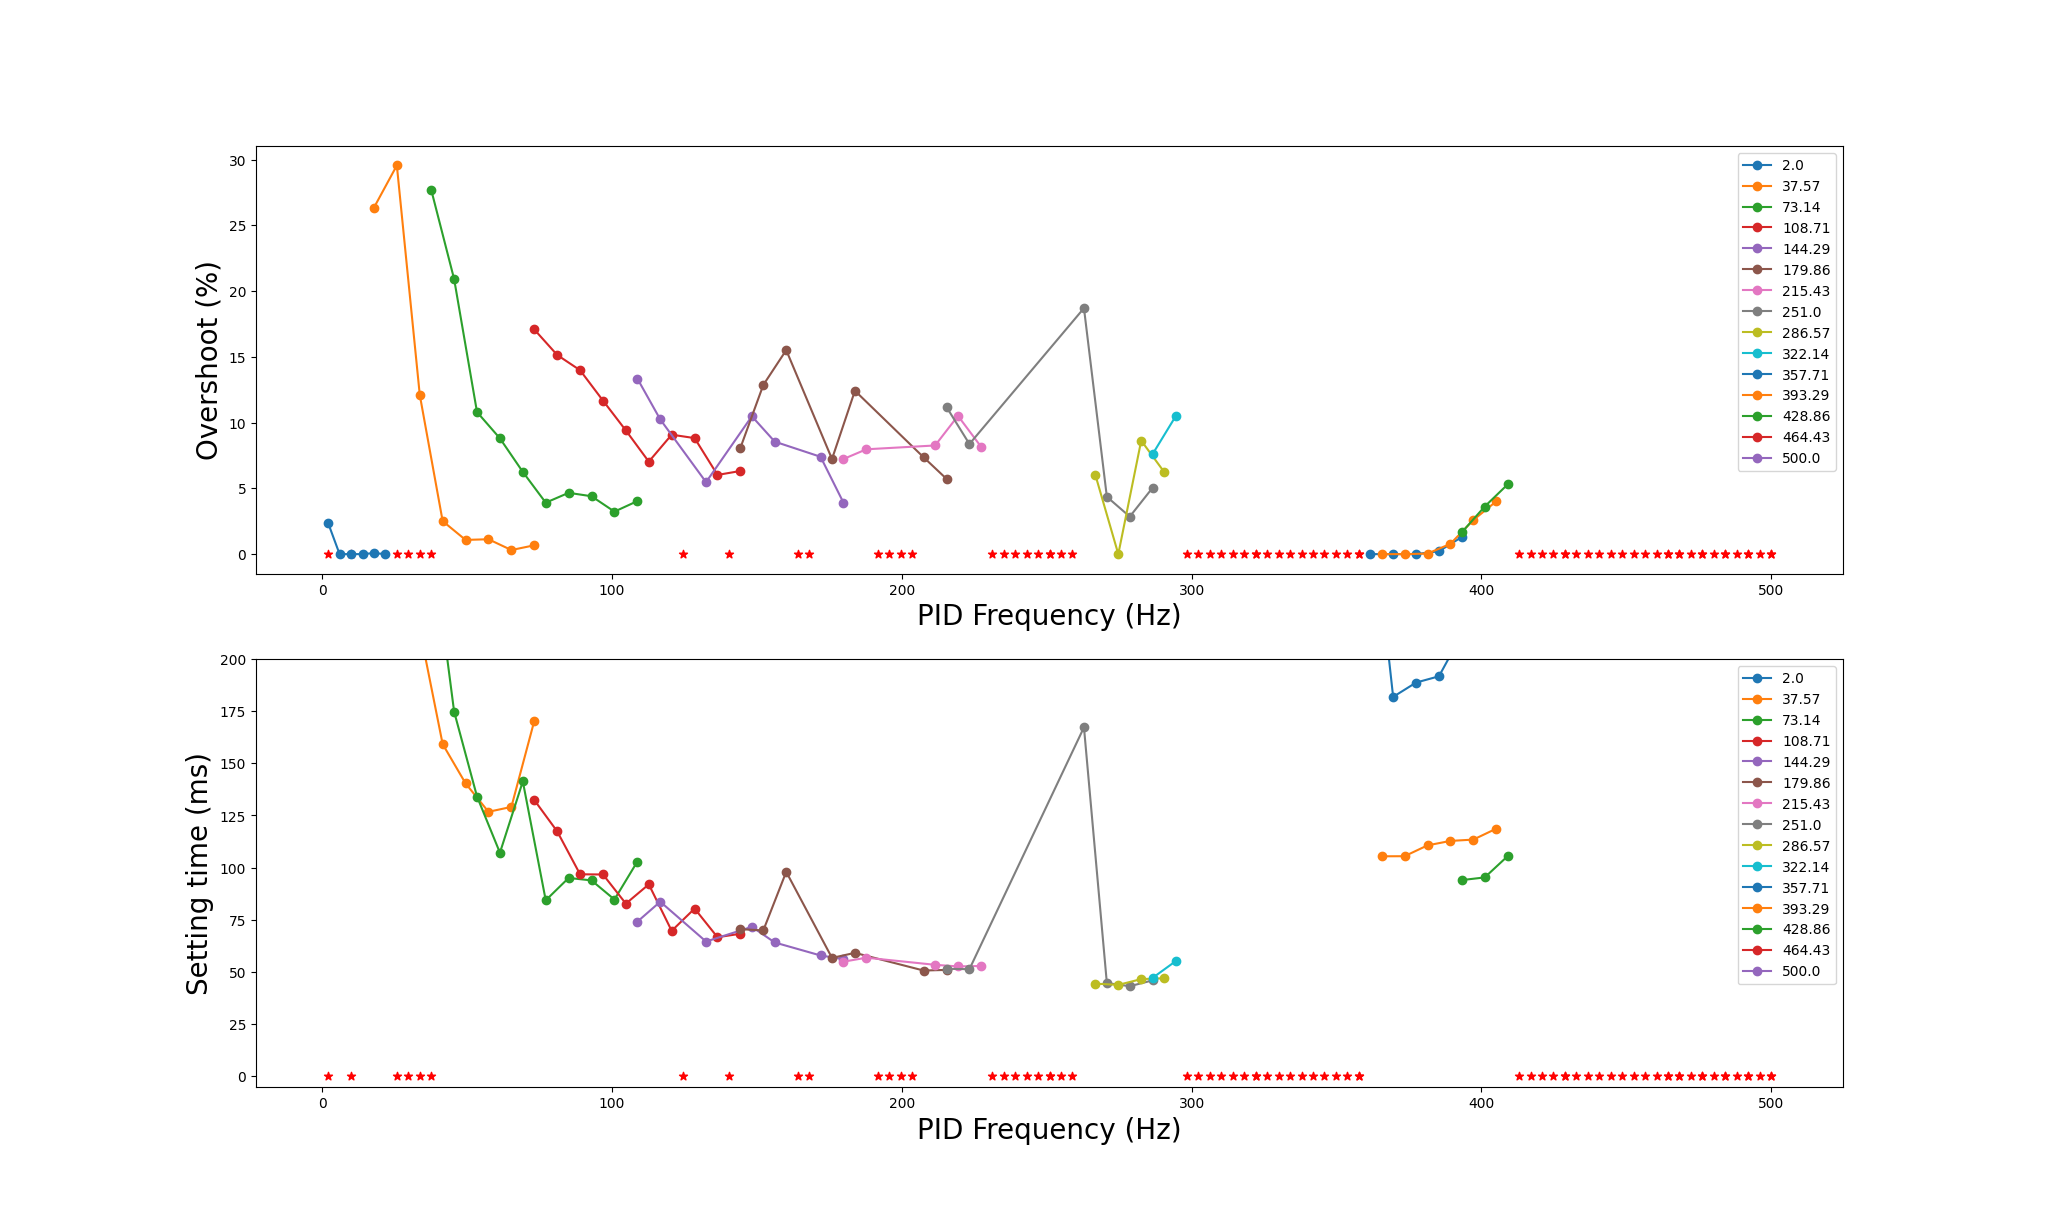
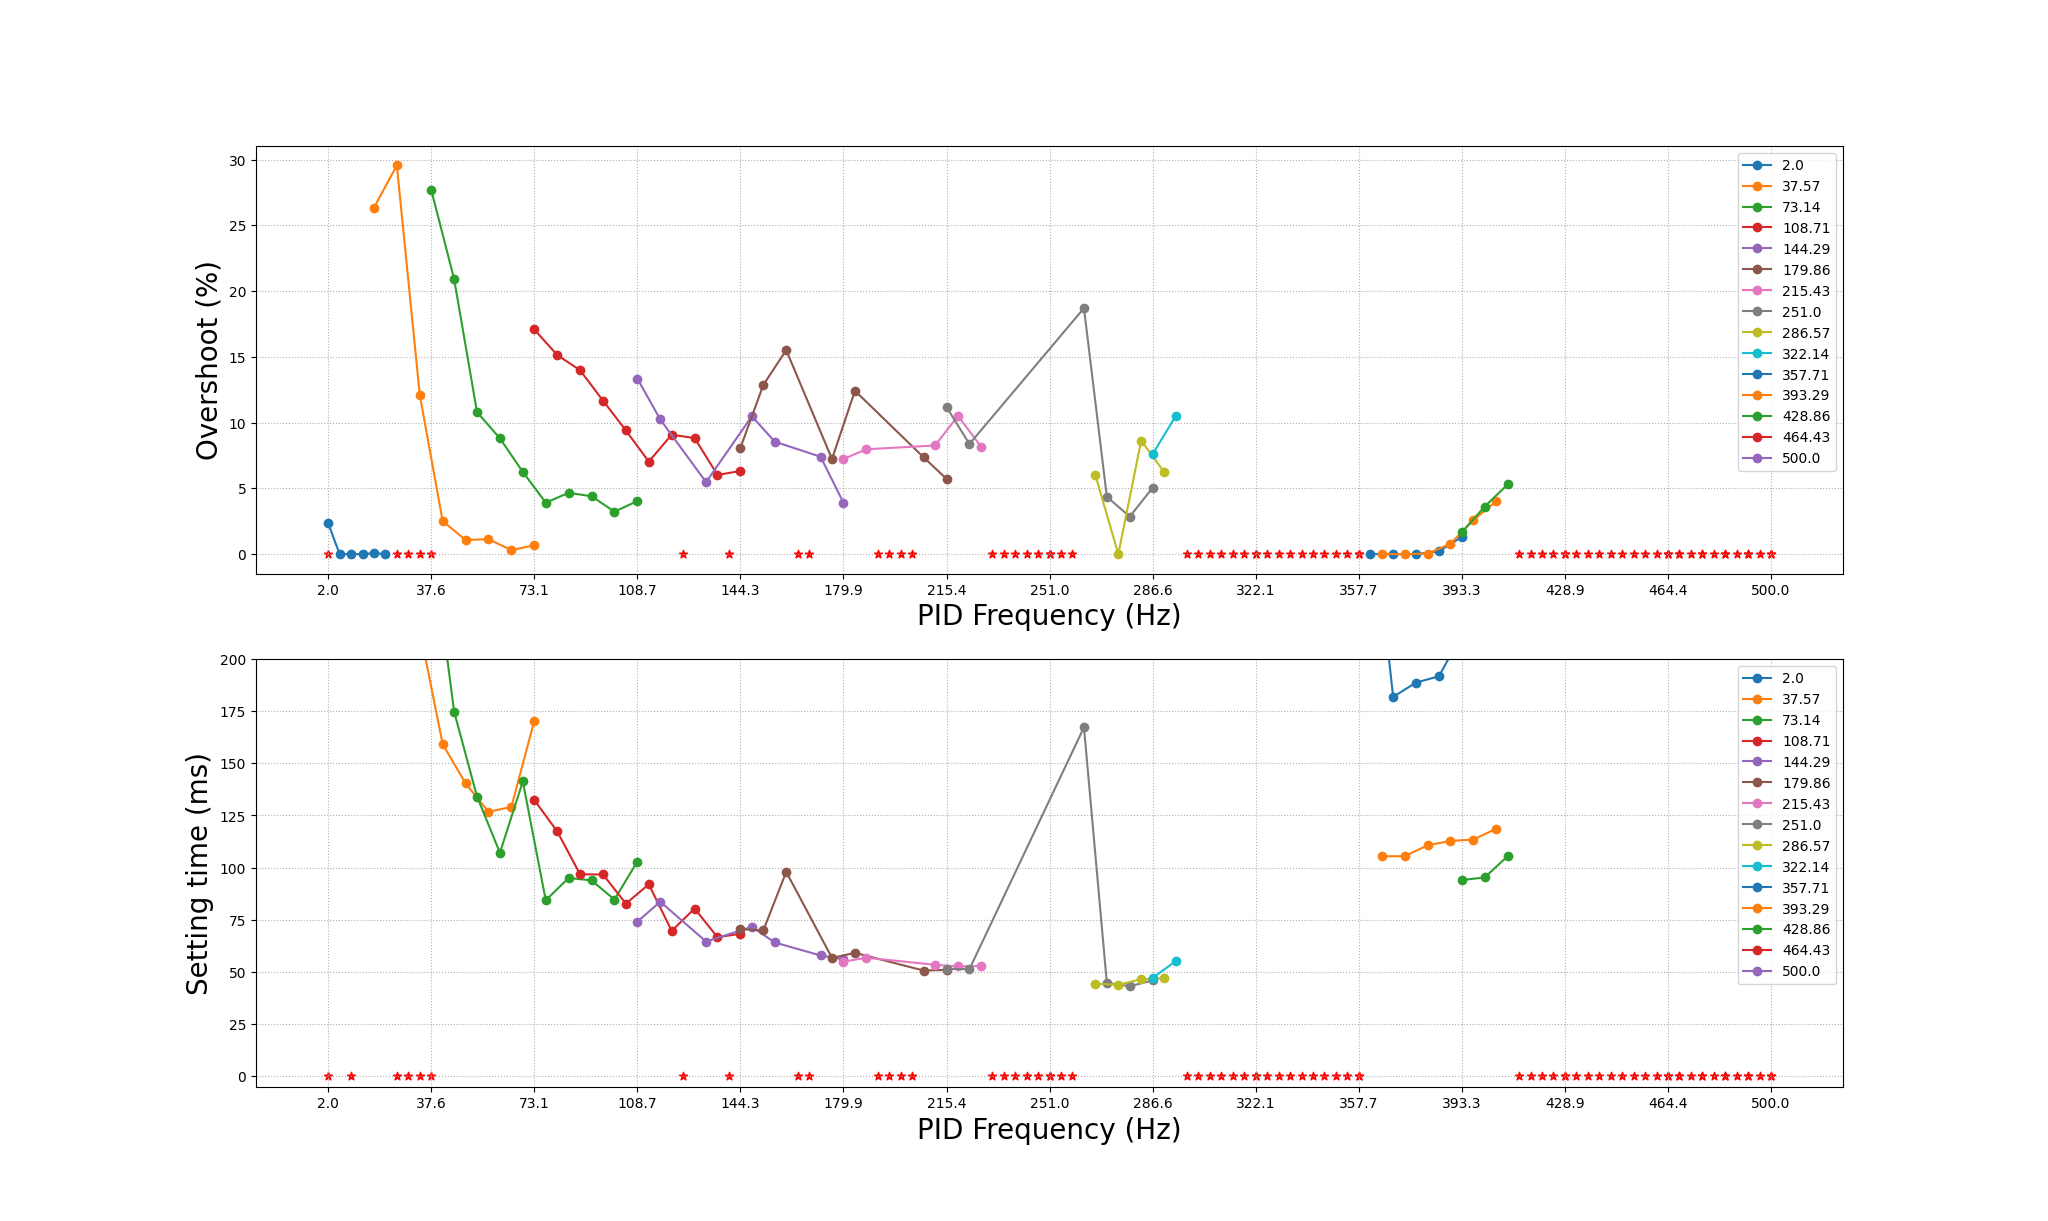
_

Changed region(s): [[0.8438, 0.4668, 0.875, 0.498], [0.5625, 0.4668, 0.5938, 0.498]]

diff --git a/Report/Pic/Result_Plot.py b/Report/Pic/Result_Plot.py
@@ -423,7 +423,7 @@ overshoot_results = np.array(overshoot_results)
 setting_results = np.array(setting_results)
 
 
-"""
+
 # 原始大图
 figure = plt.figure()
 
@@ -448,7 +448,10 @@ for i in range(len(f_test)):
         len(current_offset))[np.invert(overshoot_mask)], marker="*", color="r")
     plt.ylabel("Overshoot (%)", fontsize=20)
     plt.xlabel("PID Frequency (Hz)", fontsize=20)
+    my_x_ticks = np.array(f_test)
+    plt.xticks(my_x_ticks)
     plt.legend()
+    plt.grid(linestyle=":")
 
     # 调节时间：
     plt.subplot(2, 1, 2)
@@ -460,10 +463,13 @@ for i in range(len(f_test)):
         len(current_offset))[np.invert(setting_mask)], marker="*", color="r")
     plt.ylabel("Setting time (ms)", fontsize=20)
     plt.xlabel("PID Frequency (Hz)", fontsize=20)
+    my_x_ticks = np.array(f_test)
+    plt.xticks(my_x_ticks)
     plt.ylim([-5, 200])
     plt.legend()
+    plt.grid(linestyle=":")
 plt.show()
-"""
+
 """
 # 中频
 figure = plt.figure(figsize=(6,8))
@@ -559,9 +565,9 @@ plt.show()
 Ki = np.array([0.045, 1.20, 1.73, 2.34, 2.50, 2.63, 2.72, 2.86, 2.89, 2.92, 0.35, 0.7, 0.9, 0.9, 0.9])
 Kd = np.array([1000, 3.243, 2.52, 2.55, 2.19, 2.05, 1.97, 1.93, 1.91, 1.89, 2.9, 2.9, 2.9, 2.9, 2.9])
 
-
+""""
 # Ki变化趋势的分析：
-fig=plt.figure(figsize=[11*0.8,14*0.8])
+fig=plt.figure(figsize=[1*0.8,14*0.8])
 for i in range(len(f_test)):
     plt.subplot(2,1,1)
     plt.plot(f_test,Ki,marker="o",color="b")
@@ -590,7 +596,7 @@ for i in range(len(f_test)):
     plt.grid(linestyle=":")
 plt.show()
 
-
+"""
 
 
 
